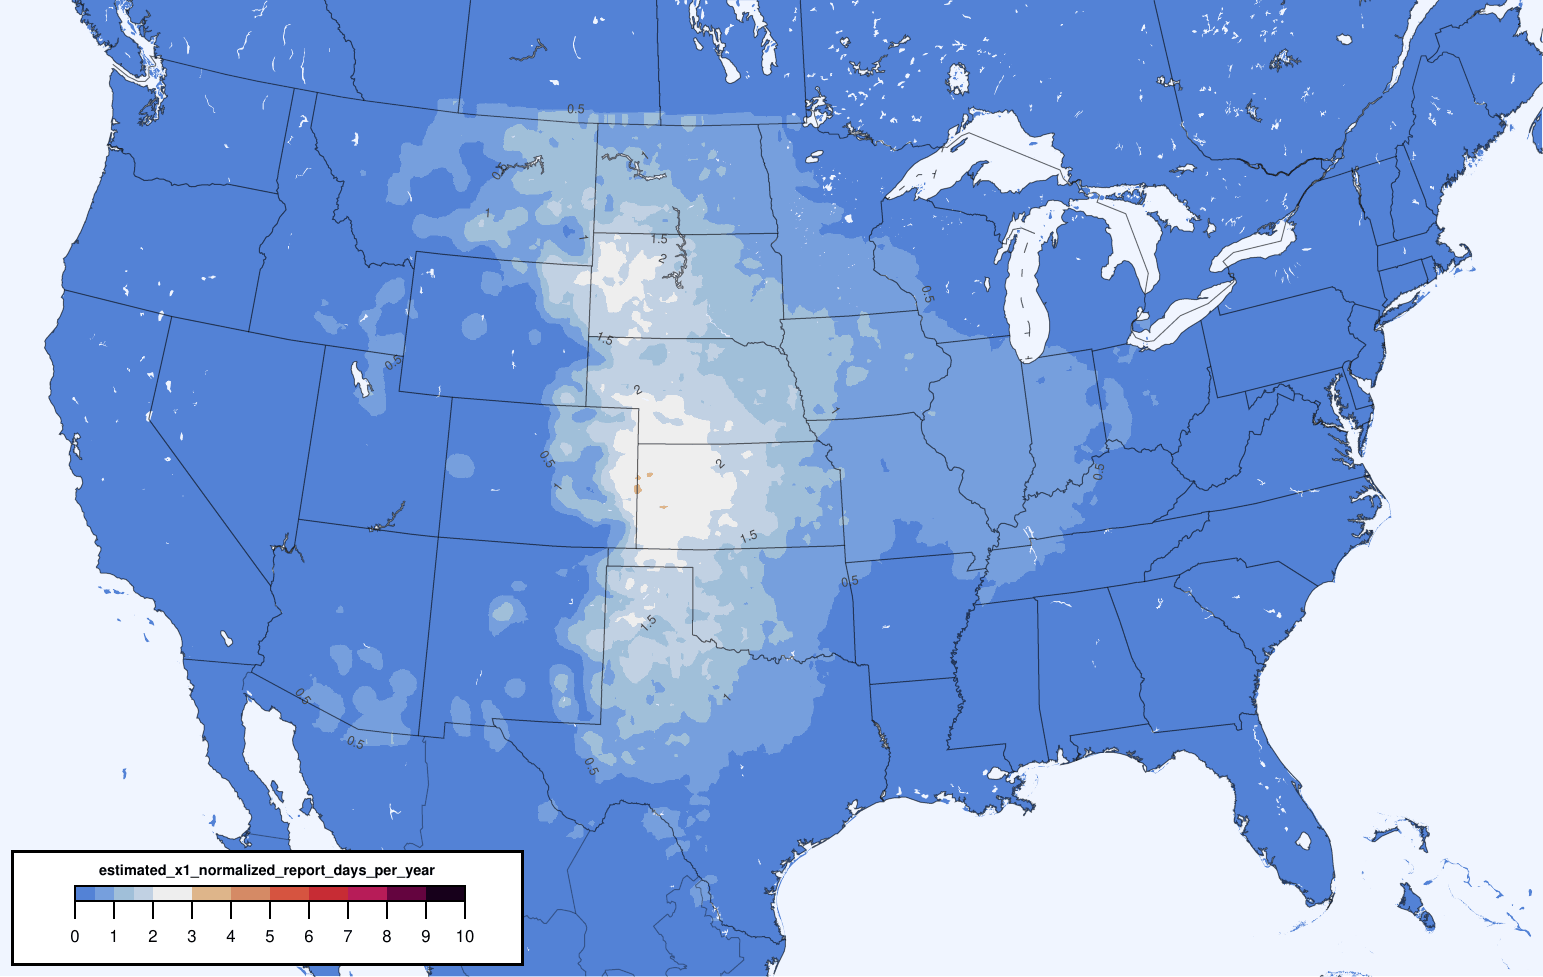
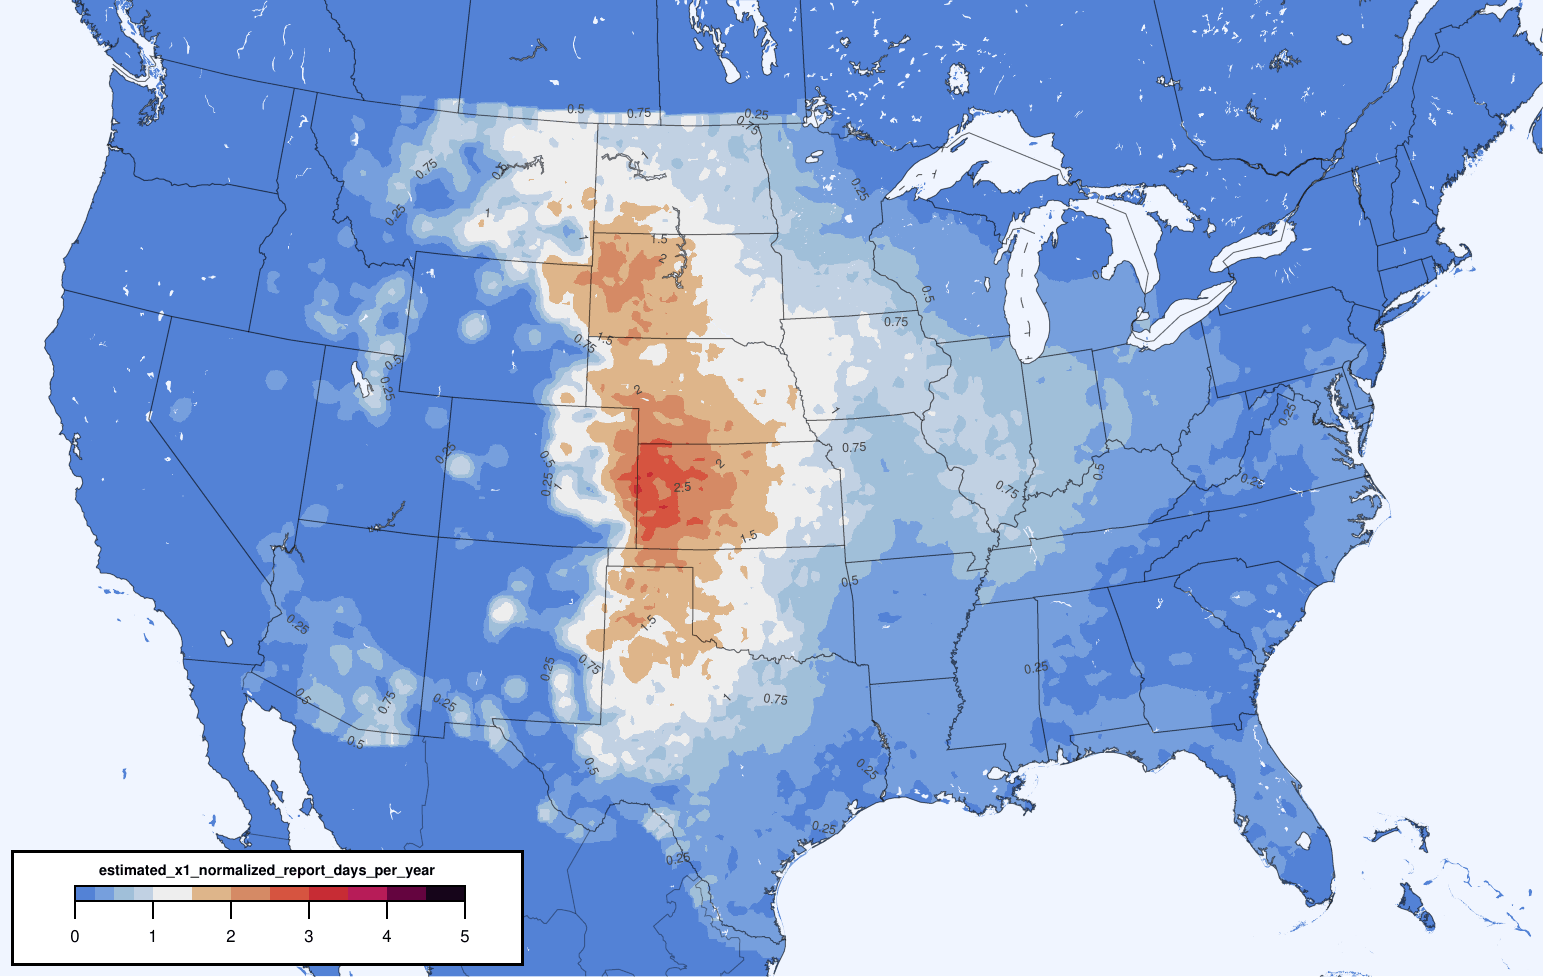
README

diff --git a/README.md b/README.md
@@ -1,0 +1,37 @@
+# Adjusted Severe Wind Training Target
+
+Thunderstorm wind reports in [Storm Data](https://www.ncdc.noaa.gov/stormevents/) are coded as either "estimated" (i.e. from damage) or "measured" from an instrument. For severe wind (50+ knots), most reports (89%) are estimated, whereas only a few (11%) are measured.
+
+Estimated reports skew towards the eastern CONUS (number within 25 miles shown below).
+
+![estimated_report_hours_per_year](plots/estimated_report_hours_per_year.png)
+
+Whereas measured reports are more common in the plains.
+
+![measured_report_hours_per_year](plots/measured_report_hours_per_year.png)
+
+Together, the overall report climatology skews eastward because there are so many more estimated reports.
+
+![all_report_hours_per_year](plots/all_report_hours_per_year.png)
+
+But, as shown in [Smith et al 2013](https://www.spc.noaa.gov/publications/smith/waf-wind.pdf) and recomputed here for 2003-2021 timeframe, [ASOS](https://www.ncei.noaa.gov/products/land-based-station/automated-surface-weather-observing-systems) permanent weather stations measure more gusts in the plains, not the east.
+
+![asos_gust_hours_per_year](plots/asos_gust_hours_per_year.png)
+
+Reports are not telling the real story. This discrepancy is a problem for ML trained against reports. Given enough features, the ML model will learn that the east is windier, but that is not true. Training against weather stations alone is not reasonable because there are not enough of them for adequate spacial coverage.
+
+This project computes an adjustment factor for estimated wind reports so they match the climatology of ASOS-measured severe wind gusts. Each estimated wind report is multiplied by a weight (below) based on its location in the CONUS.
+
+![hour_x1_normalization](plots/hour_x1_normalization.png)
+
+This normalization results in a climatology of estimated wind reports that, in relative magnitudes at least, approximates that measured by ASOS stations:
+
+![estimated_x1_normalized_report_hours_per_year](plots/estimated_x1_normalized_report_hours_per_year.png)
+
+These normalized estimated wind reports may be added back to the measured wind reports to create a training target for ML (so long as the ML algorithm can handle labels with fractional values between 0 and 1.0).
+
+![estimated_x1_normalized_plus_measured_report_hours_per_year](plots/estimated_x1_normalized_plus_measured_report_hours_per_year.png)
+
+## Process
+
+...
